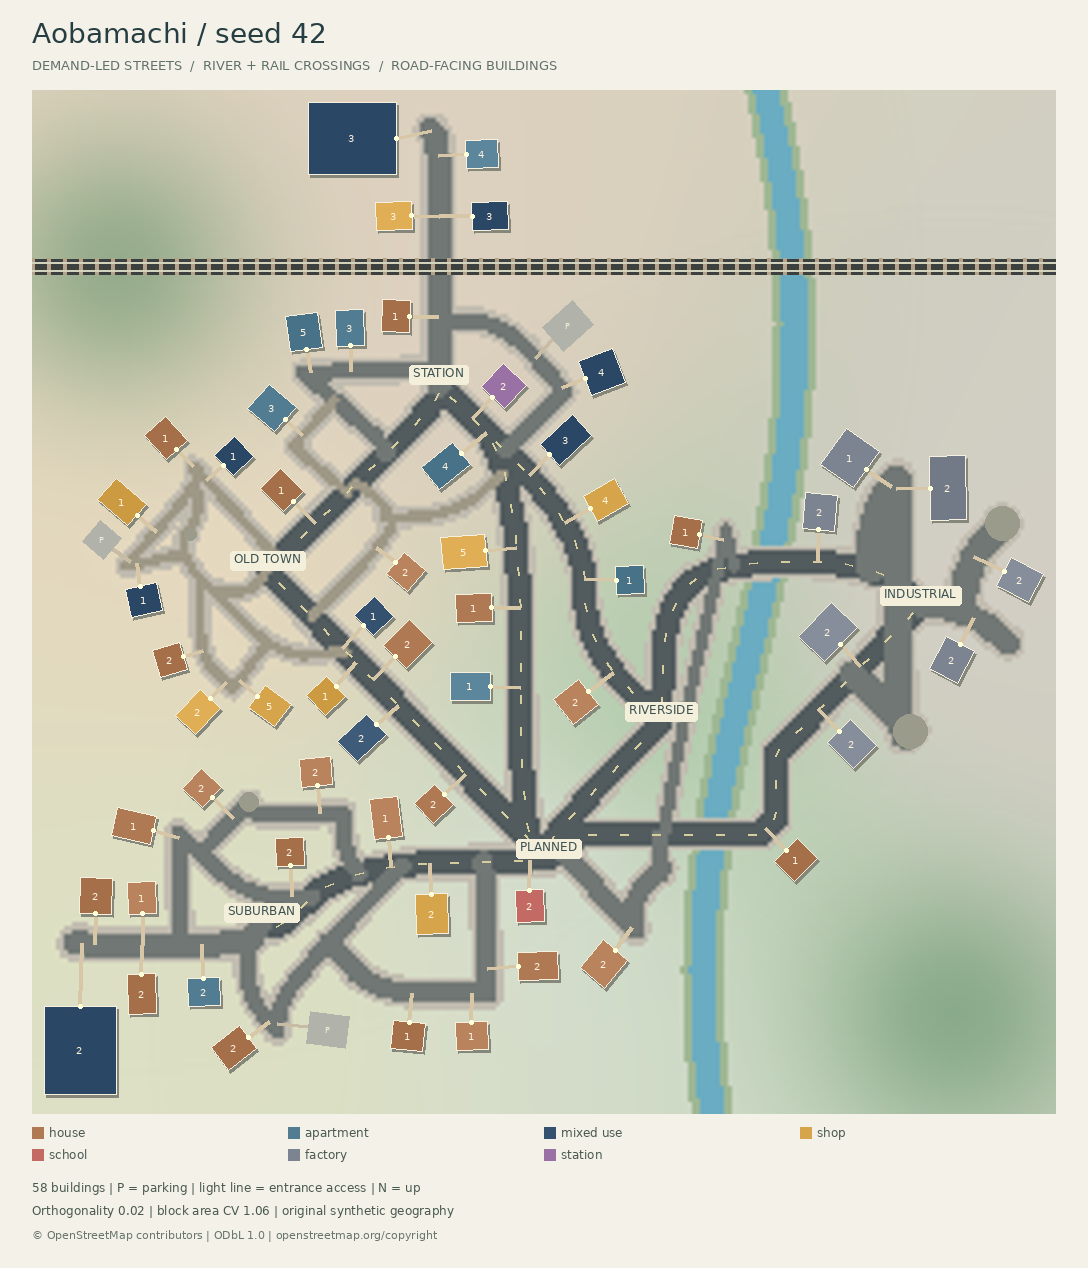
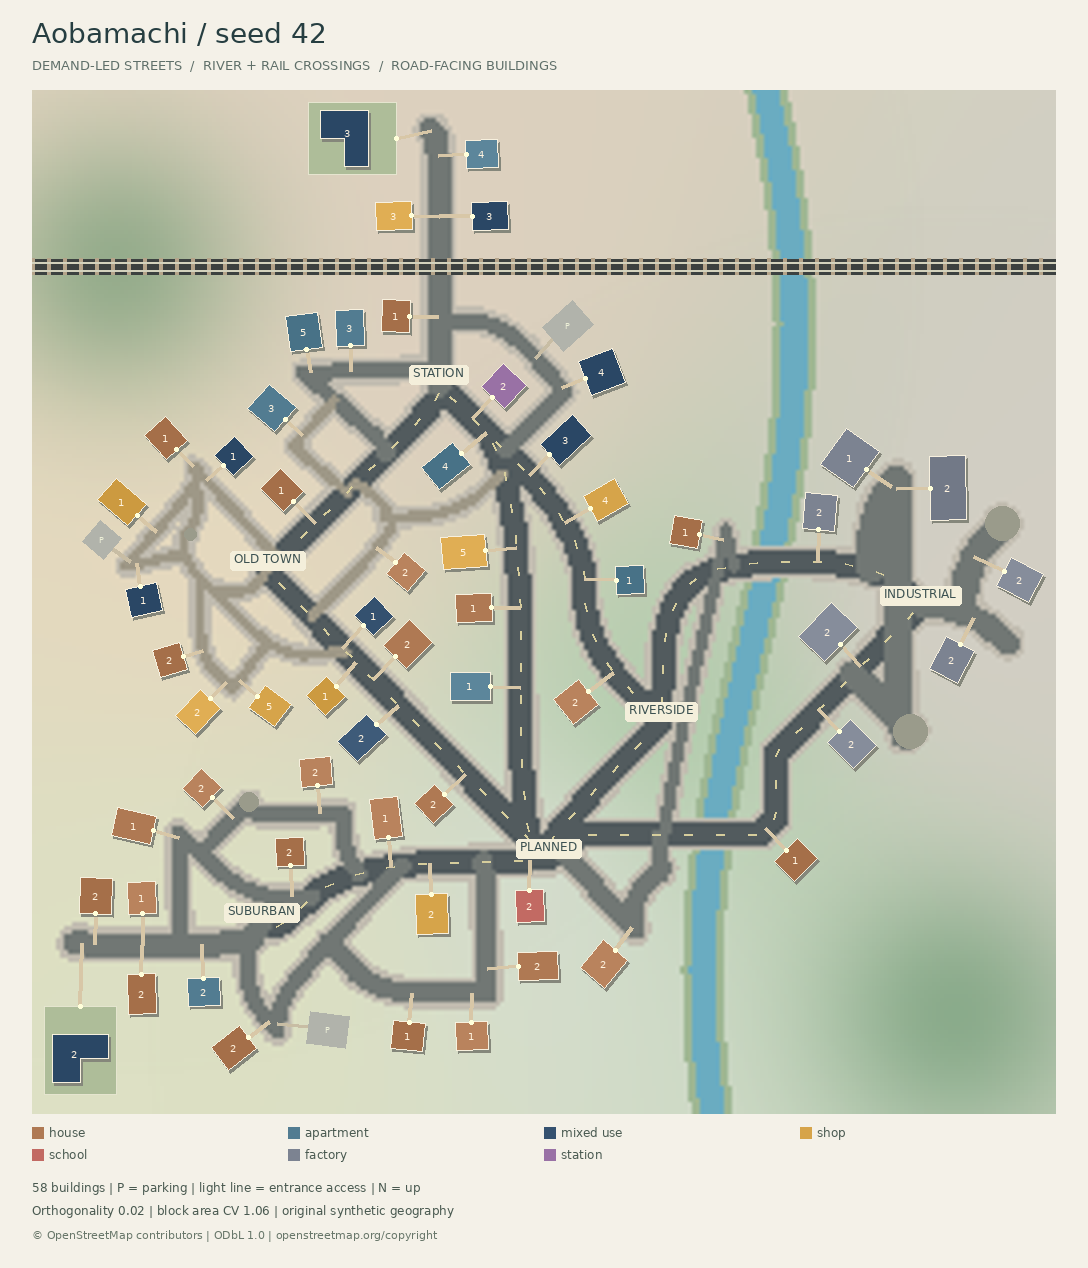
Show building mass separately from reserved yards in quality maps

Changed region(s): [[0.2812, 0.0615, 0.375, 0.1538], [0.0312, 0.7689, 0.125, 0.892]]

diff --git a/src/minecraft_city/organic_preview.py b/src/minecraft_city/organic_preview.py
@@ -94,12 +94,19 @@ def render_organic(city, path, scale=4):
         )
     for building in city.buildings:
         shape = building_area(building)
+        if building.architecture is not None:
+            from .urban_quality import roof_footprint
+
+            draw.polygon(points(list(shape.exterior.coords)), fill="#aebd99", outline="#e5e5cf")
+            shape = roof_footprint(building)
         coords = list(shape.exterior.coords)
         draw.line(points(building.access_path), fill="#d8c7a7", width=max(2, scale))
         draw.polygon([(x * scale + 2, z * scale + 3) for x, z in coords], fill="#85877b")
         rgb = np.array(ImageColor.getrgb(BUILDING_COLORS[building.kind]))
         color = tuple(np.clip(rgb + (building.variant % 3 - 1) * 10, 0, 255).tolist())
         draw.polygon(points(coords), fill=color, outline="#f7f0de", width=max(1, scale // 3))
+        for interior in shape.interiors:
+            draw.polygon(points(list(interior.coords)), fill="#aebd99")
         center = shape.centroid
         if scale >= 3:
             draw.text(

diff --git a/DEVELOPMENT_LOG.md b/DEVELOPMENT_LOG.md
@@ -127,3 +127,5 @@
 - 新旧比較、quality-v05のproject/schematic、310テストの記録、QUALITY_V05、README/NATURAL_CITY/ROADMAPを保存。v0.6は未実装項目として明示。
 - 次はPhase 4ブランチをbaseにv0.5 PRを作成し、最終コミットのGitHub Actionsを確認。認証はgh REST/Gitを使用（GraphQLの一時401/旧Projects API失敗時はRESTへ切替）。PR #3は未マージ、mainを勝手に変更していない。
 - 利用制限で止まった場合はこのブランチの最新git log/statusとPR Checksから再開し、旧成果物を作り直さない。
+
+- PR #4作成済み（base: feature/phase4-paper-integration、PR #3依存）。品質地図はPhase 5の本体形状を庭/予約敷地から分けて描画する補修を追加し、新規/tmp出力から比較画像を更新。旧モデルのプレビューは変更しない。
